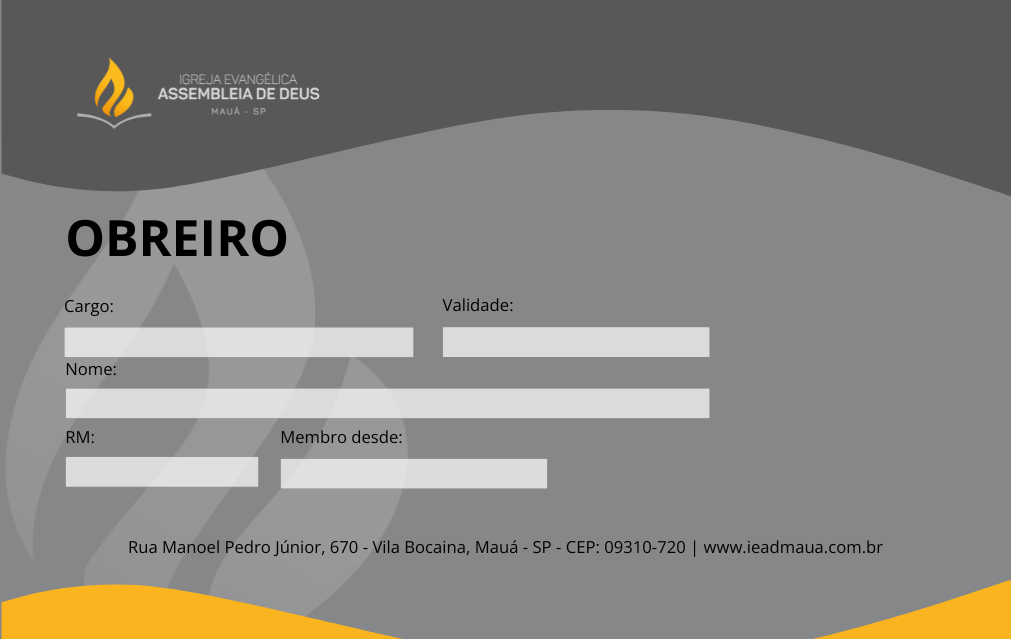
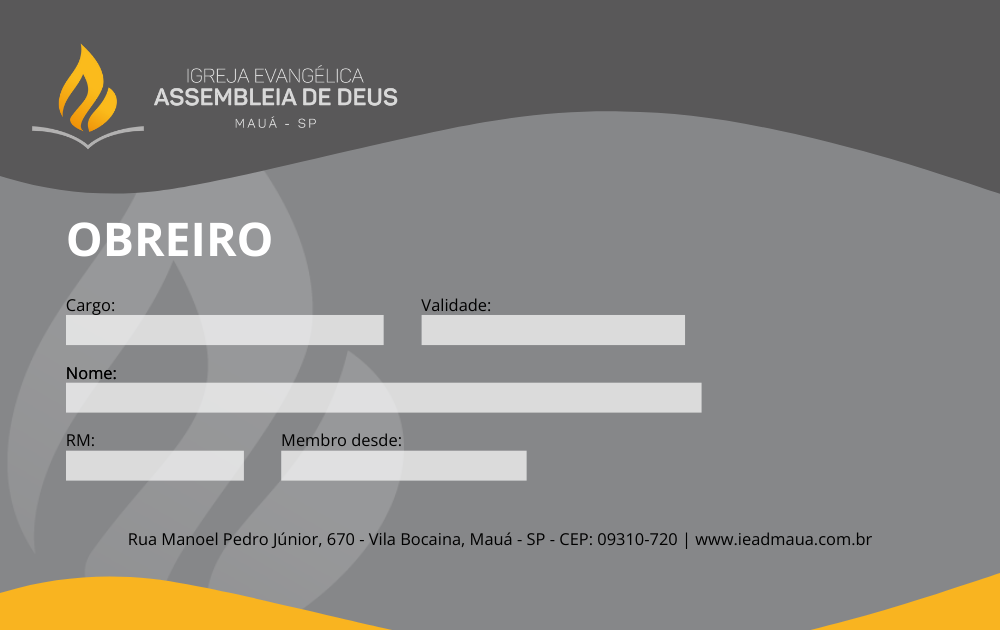
Correção das carteirinhas,validacao de Senha Forte e Inclusão dos dados do membro no metodo Token

diff --git a/ASChurchManager.Application/AppServices/MembroAppService.cs b/ASChurchManager.Application/AppServices/MembroAppService.cs
@@ -30,6 +30,9 @@ using PointF = SixLabors.ImageSharp.PointF;
 using SixLabors.ImageSharp.Drawing.Processing;
 using Color = SixLabors.ImageSharp.Color;
 using QRCoder;
+using Microsoft.AspNetCore.Mvc;
+
+
 
 namespace ASChurchManager.Application.AppServices
 {
@@ -378,23 +381,50 @@ namespace ASChurchManager.Application.AppServices
                 return false;
         }
 
+        public bool ValidarSenhaForte(string senha)
+        {
+            if (senha.Length < 6)
+                return false;
+
+            bool temMaiuscula = false, temMinuscula = false, temNumero = false, temEspecial = false;
+            string caracteresEspeciais = "!@#$%^&*()-_=+[]{};:'\",.<>?/\\|";
+
+            foreach (char c in senha)
+            {
+                if (char.IsUpper(c)) temMaiuscula = true;
+                if (char.IsLower(c)) temMinuscula = true;
+                if (char.IsDigit(c)) temNumero = true;
+                if (caracteresEspeciais.Contains(c)) temEspecial = true;
+            }
+
+            return temMaiuscula && temMinuscula && temNumero && temEspecial;
+        }
+
+
+
         public void AtualizarSenha(long Id, string SenhaAtual, string NovaSenha, bool atualizarSenha, bool atualizarDataInscricao = false)
         {
             var membro = _membroRepository.GetById(Id, 0);
-            if (membro.Id == Id)
+            if (membro == null || membro.Id != Id)
             {
-                var senha = Hash.GetHash(SenhaAtual, CryptoProviders.HashProvider.MD5);
-                if (senha == membro.Senha)
-                {
-                    var senhaNova = Hash.GetHash(NovaSenha, CryptoProviders.HashProvider.MD5);
-                    _membroRepository.AtualizarSenha(Id, SenhaAtual, senhaNova, atualizarSenha);
-                }
-                else
-                    throw new Erro("Senha atual incorreta");
-            }
-            else
                 throw new Erro("Membro não encontrado");
+            }
+
+            var senhaAtualHash = Hash.GetHash(SenhaAtual, CryptoProviders.HashProvider.MD5);
+            if (senhaAtualHash != membro.Senha)
+            {
+                throw new Erro("Senha atual incorreta");
+            }
+
+            if (!ValidarSenhaForte(NovaSenha))
+            {
+                throw new Erro("A nova senha deve ter no mínimo 8 caracteres, incluindo letras maiúsculas, minúsculas, números e caracteres especiais.");
+            }
+
+            var senhaNovaHash = Hash.GetHash(NovaSenha, CryptoProviders.HashProvider.MD5);
+            _membroRepository.AtualizarSenha(Id, SenhaAtual, senhaNovaHash, atualizarSenha);
         }
+
 
         public (bool, string) InscricaoApp(string cpf, string nomeMae, DateTime dataNascimento)
         {
@@ -461,6 +491,8 @@ namespace ASChurchManager.Application.AppServices
             return (senha, senhaCriptografada); //senha,senhaCriptografada
 
         }
+
+
         public void AtualizarEmail(long id, string email)
         {
             _membroRepository.AtualizarEmail(id, email);
@@ -542,7 +574,7 @@ namespace ASChurchManager.Application.AppServices
                         overlayImage.Mutate(ctx => ctx.Resize(Convert.ToInt32(widthAlt), Convert.ToInt32(heightAlt)));
 
                         // Definir posição da imagem sobreposta
-                        Point overlayPosition = new Point(750, 230); // Ajuste X e Y conforme necessário
+                        Point overlayPosition = new Point(740, 210); // Ajuste X e Y conforme necessário
 
                         // Sobrepor a imagem
                         image.Mutate(ctx => ctx.DrawImage(overlayImage, overlayPosition, 1f)); // 1f = Opacidade total
@@ -559,20 +591,20 @@ namespace ASChurchManager.Application.AppServices
                 if (membro.TipoCarteirinha == Domain.Types.TipoCarteirinha.Membro)
                 {
                     // Posições para "membro_frente.png"
-                    posicaoNome = new PointF(75, 375);
-                    posicaoRM = new PointF(75, 445);
-                    posicaoMembroDesde = new PointF(290, 445);
+                    posicaoNome = new PointF(70, 368);
+                    posicaoRM = new PointF(70, 435);
+                    posicaoMembroDesde = new PointF(280, 440);
                     posicaoCargo = PointF.Empty;
                     posicaoValidade = PointF.Empty;
                 }
                 else
                 {
                     // Posições para "obreiro_frente.png"
-                    posicaoCargo = new PointF(75, 330);
-                    posicaoValidade = new PointF(445, 335);
-                    posicaoNome = new PointF(75, 390);
-                    posicaoRM = new PointF(75, 460);
-                    posicaoMembroDesde = new PointF(285, 465);
+                    posicaoCargo = new PointF(70, 320);
+                    posicaoValidade = new PointF(425, 325);
+                    posicaoNome = new PointF(70, 386);
+                    posicaoRM = new PointF(70, 455);
+                    posicaoMembroDesde = new PointF(285, 460);
                 }
 
                 // Aplicar textos na imagem
@@ -620,12 +652,12 @@ namespace ASChurchManager.Application.AppServices
                 {
                     // Posições para "membro_frente.png"
                     posicaoPai = new PointF(70, 90);
-                    posicaoMae = new PointF(70, 150);
-                    posicaoCidade = new PointF(70, 220);
-                    posicaoUf = new PointF(860, 220);
+                    posicaoMae = new PointF(70, 155);
+                    posicaoCidade = new PointF(70, 225);
+                    posicaoUf = new PointF(850, 225);
                     posicaoDataNascimento = new PointF(70, 290);
-                    posicaoEstadoCivil = new PointF(320, 290);
-                    posicaoCpf = new PointF(320, 360);
+                    posicaoEstadoCivil = new PointF(330, 290);
+                    posicaoCpf = new PointF(330, 360);
                     posicaoDataBatismo = new PointF(70, 360);
                     posicaoDataConsagracao = PointF.Empty;
                     posicaoConfragesp = PointF.Empty;
@@ -636,15 +668,15 @@ namespace ASChurchManager.Application.AppServices
                     // Posições para "obreiro_verso.png"
                     posicaoPai = new PointF(70, 90);
                     posicaoMae = new PointF(70, 155);
-                    posicaoCidade = new PointF(70, 220);
-                    posicaoUf = new PointF(880, 220);
-                    posicaoDataNascimento = new PointF(70, 280);
-                    posicaoEstadoCivil = new PointF(320, 280);
-                    posicaoCpf = new PointF(610, 280);
-                    posicaoDataBatismo = new PointF(70, 345);
-                    posicaoDataConsagracao = new PointF(320, 345);
-                    posicaoConfragesp = new PointF(70, 410);
-                    posicaoCgadb = new PointF(320, 410);
+                    posicaoCidade = new PointF(70, 225);
+                    posicaoUf = new PointF(850, 225);
+                    posicaoDataNascimento = new PointF(70, 290);
+                    posicaoEstadoCivil = new PointF(340, 290);
+                    posicaoCpf = new PointF(615, 290);
+                    posicaoDataBatismo = new PointF(70, 360);
+                    posicaoDataConsagracao = new PointF(340, 360);
+                    posicaoConfragesp = new PointF(70, 435);
+                    posicaoCgadb = new PointF(340, 435);
                 }
 
                 // Aplicar o texto na imagem, verificando valores nulos
@@ -664,7 +696,7 @@ namespace ASChurchManager.Application.AppServices
                 });
 
                 // Salvar a imagem com as informações preenchidas
-                //  image.Mutate(ctx => ctx.Rotate(RotateMode.Rotate90));
+                image.Mutate(ctx => ctx.Rotate(RotateMode.Rotate90));
 
                 var memoryStream = new MemoryStream();
                 image.Save(memoryStream, new PngEncoder()); // Salvar como PNG no stream
@@ -704,8 +736,6 @@ namespace ASChurchManager.Application.AppServices
 
             return _membroRepository.AtualizarMembroAtualizado(id, atualizado);
         }
-
-
     }
 
 }

diff --git a/ASChurchManager.API.Membro/Controllers/MembroController.cs b/ASChurchManager.API.Membro/Controllers/MembroController.cs
@@ -60,24 +60,35 @@ namespace ASChurchManager.API.Membro.Controllers
             }
         }
 
-
         [HttpPatch("atualizarSenha")]
         [Authorize]
         public IActionResult AtualizarSenha(SenhaDTO senhaDTO)
         {
             try
             {
+                // Validar se a senha atual está correta
                 if (!_membroAppService.ValidarSenha(senhaDTO.id, senhaDTO.senhaAtual))
                     return ResponseOK(new { erro = true, mensagem = "Senha atual está incorreta." });
 
+                // Validar se a nova senha atende aos critérios de segurança
+                if (!_membroAppService.ValidarSenhaForte(senhaDTO.novaSenha))
+                    return ResponseOK(new
+                    {
+                        erro = true,
+                        mensagem = "A nova senha deve ter pelo menos 6 caracteres, incluindo uma letra maiúscula, uma letra minúscula, um número e um caractere especial(!@#$%^&*()-_=+[]{};:'\",.<>?/\\|))."
+                    });
+
+                // Atualizar a senha
                 _membroAppService.AtualizarSenha(senhaDTO.id, senhaDTO.senhaAtual, senhaDTO.novaSenha, false);
                 return ResponseOK(new { mensagem = "Senha atualizada com sucesso.", erro = false });
             }
             catch (Exception ex)
             {
-                return ResponseServerError(new Erro(ex.Message, ex));
+                return ResponseServerError(new Erro("Erro ao atualizar a senha.", ex));
             }
         }
+
+        // Método para validar se a senha é forte
 
         [HttpPost("inscricao")]
         [Authorize]

diff --git a/ASChurchManager.API.Membro/Controllers/LoginController.cs b/ASChurchManager.API.Membro/Controllers/LoginController.cs
@@ -16,7 +16,6 @@ namespace ASChurchManager.API.Membro.Controllers
         {
             _membroAppService = membroAppService;
         }
-
         [HttpPost("token")]
         public IActionResult Token([FromServices] IConfiguration configuration,
           LoginDTO login)
@@ -47,8 +46,18 @@ namespace ASChurchManager.API.Membro.Controllers
                     if (senhaOk)
                     {
                         var token = new TokenServices().Generate(membro);
+                        var mem = new MembroDTO
+                        {
+                            rm = (int)membro.Id,
+                            nome = membro.Nome,
+                            email = membro.Email,
+                            congregacao = membro.Congregacao.Nome,
+                            atualizarSenha = membro.AtualizarSenha,
+                            foto = membro.FotoUrl,
+                            membroAtualizado = membro.MembroAtualizado
+                        };
 
-                        return ResponseOK(new { Result = "OK", access_Token = token, Id = membro.Id });
+                        return ResponseOK(new { Result = "OK", access_Token = token, membro = mem });
                     }
                     return ResponseUnauthorized(new Erro("Membro não localizado"));
                 }

diff --git a/ASChurchManager.Application/Interfaces/IMembroAppService.cs b/ASChurchManager.Application/Interfaces/IMembroAppService.cs
@@ -1,5 +1,6 @@
 using ASChurchManager.Domain.Entities;
 using ASChurchManager.Domain.Intefaces.Repository;
+using Microsoft.AspNetCore.Mvc;
 using System;
 using System.Collections.Generic;
 using System.Threading.Tasks;
@@ -20,6 +21,9 @@ namespace ASChurchManager.Application.Interfaces
         (bool, byte[], string) CarterinhaFrente(Carteirinha membro, SixLabors.ImageSharp.Image image);
         (bool, byte[], string) CarterinhaVerso(Carteirinha membro, SixLabors.ImageSharp.Image image);
         (bool, byte[], string) GerarQrCode(Carteirinha membro);
-
+        bool ValidarSenhaForte(string senha);
     }
+
+
+
 }

diff --git a/ASChurchManager.Domain/Entities/Membro.cs b/ASChurchManager.Domain/Entities/Membro.cs
@@ -73,5 +73,7 @@ namespace ASChurchManager.Domain.Entities
         public bool AtualizarSenha { get; set; }
         public DateTime DataInscricaoApp { get; set; }
         public bool MembroAtualizado { get; set; }
+
+
     }
 }
